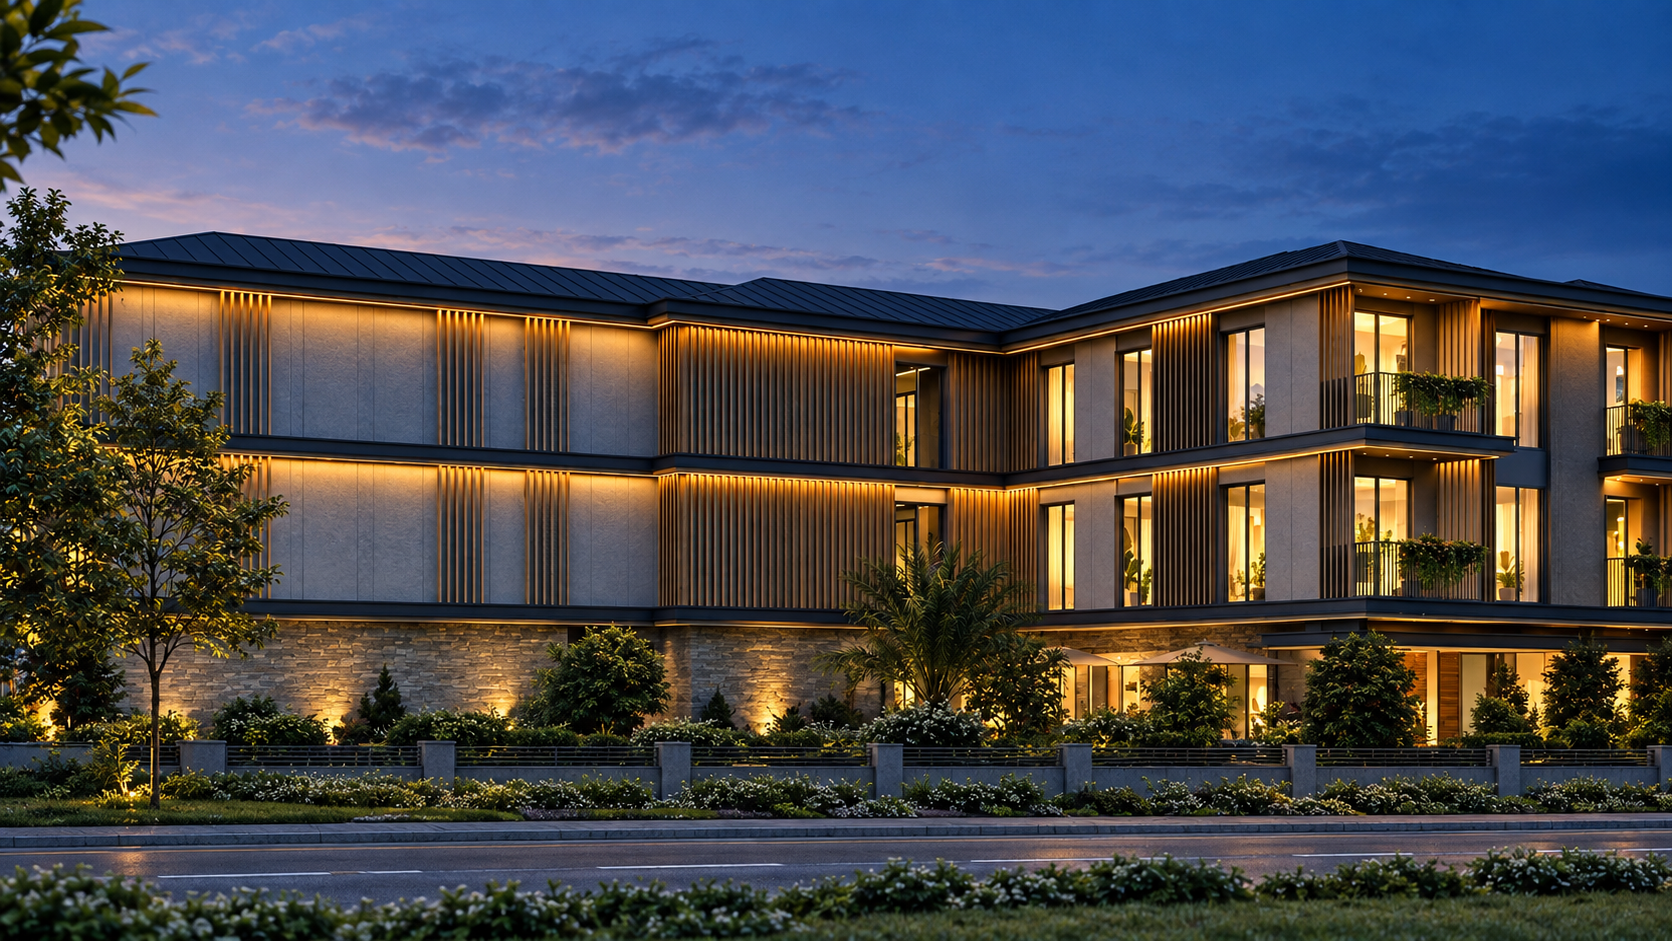
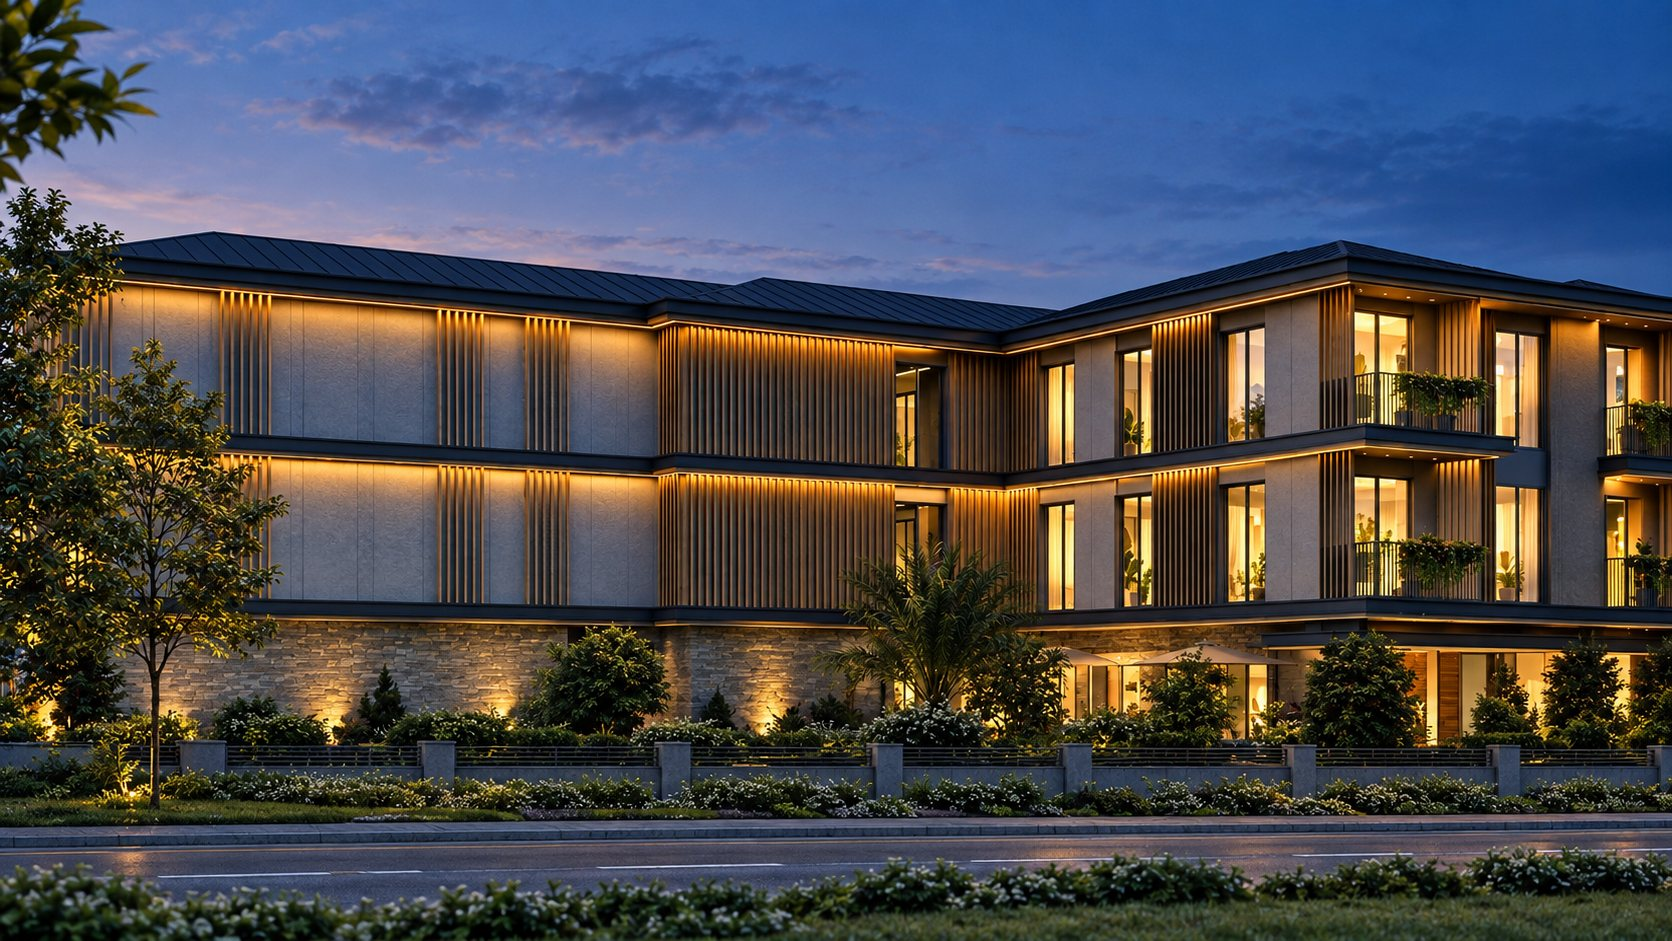
perf: optimize modal animations, eliminate nested backdrop blurs, and compress images by 85%

diff --git a/src/components/ProjectDetailModal.tsx b/src/components/ProjectDetailModal.tsx
@@ -31,17 +31,17 @@ export const ProjectDetailModal: React.FC<ProjectDetailModalProps> = ({ project,
 
   return (
     <div 
-      className="fixed inset-0 z-50 overflow-y-auto bg-black/45 backdrop-blur-sm flex justify-center p-0 md:p-6 lg:p-10 animate-modal-backdrop"
+      className="fixed inset-0 z-50 overflow-y-auto bg-black/70 backdrop-blur-sm flex justify-center p-0 md:p-6 lg:p-10 animate-modal-backdrop"
       onClick={(e) => {
         if (e.target === e.currentTarget) onClose()
       }}
     >
       <div 
-        className="relative w-full max-w-5xl bg-[#1e242b]/75 backdrop-blur-2xl border border-[#fffff1]/20 md:rounded-2xl overflow-hidden shadow-[0_25px_60px_-15px_rgba(0,0,0,0.7)] flex flex-col text-[#fffff1] my-auto animate-modal-content"
+        className="relative w-full max-w-5xl bg-[#1e242b] border border-[#fffff1]/20 md:rounded-2xl overflow-hidden shadow-[0_25px_60px_-15px_rgba(0,0,0,0.85)] flex flex-col text-[#fffff1] my-auto animate-modal-content"
         onClick={(e) => e.stopPropagation()}
       >
         {/* Sticky Header Bar */}
-        <div className="sticky top-0 z-30 flex items-center justify-between px-6 py-4 bg-[#1e242b]/65 backdrop-blur-xl border-b border-[#fffff1]/15">
+        <div className="sticky top-0 z-30 flex items-center justify-between px-6 py-4 bg-[#1e242b] border-b border-[#fffff1]/15">
           <div>
             <span className="text-[10px] tracking-widest text-[#fffff1]/80 uppercase block font-medium">
               {project.categoryLabel} — {project.year}
@@ -118,7 +118,7 @@ export const ProjectDetailModal: React.FC<ProjectDetailModalProps> = ({ project,
             </div>
 
             {/* Technical Specifications Card */}
-            <div className="bg-[#313941]/55 backdrop-blur-xl border border-[#fffff1]/15 p-6 rounded-xl space-y-5 h-fit shadow-lg">
+            <div className="bg-[#2c343d] border border-[#fffff1]/15 p-6 rounded-xl space-y-5 h-fit shadow-lg">
               <h3 className="text-xs tracking-[0.2em] text-[#fffff1]/80 uppercase pb-2 border-b border-[#fffff1]/10 font-medium">
                 TEKNİK KÜNYE
               </h3>
@@ -198,7 +198,7 @@ export const ProjectDetailModal: React.FC<ProjectDetailModalProps> = ({ project,
               </div>
 
               {project.floorPlans[selectedPlanIndex] && (
-                <div className="bg-[#313941]/55 backdrop-blur-xl border border-[#fffff1]/15 rounded-xl p-6 grid grid-cols-1 md:grid-cols-2 gap-6 items-center shadow-lg">
+                <div className="bg-[#2c343d] border border-[#fffff1]/15 rounded-xl p-6 grid grid-cols-1 md:grid-cols-2 gap-6 items-center shadow-lg">
                   <div className="rounded-lg overflow-hidden border border-[#fffff1]/10 aspect-[4/3] bg-black/40">
                     <img
                       src={project.floorPlans[selectedPlanIndex].image}

diff --git a/src/components/TourBookingModal.tsx b/src/components/TourBookingModal.tsx
@@ -29,17 +29,17 @@ export const TourBookingModal: React.FC<TourBookingModalProps> = ({ isOpen, onCl
 
   return (
     <div 
-      className="fixed inset-0 z-50 overflow-y-auto bg-black/45 backdrop-blur-sm flex justify-center p-4 sm:p-6 lg:p-10 animate-modal-backdrop"
+      className="fixed inset-0 z-50 overflow-y-auto bg-black/70 backdrop-blur-sm flex justify-center p-4 sm:p-6 lg:p-10 animate-modal-backdrop"
       onClick={(e) => {
         if (e.target === e.currentTarget) onClose()
       }}
     >
       <div 
-        className="relative w-full max-w-xl bg-[#1e242b]/75 backdrop-blur-2xl border border-[#fffff1]/20 rounded-2xl overflow-hidden shadow-[0_25px_60px_-15px_rgba(0,0,0,0.7)] flex flex-col text-[#fffff1] my-auto animate-modal-content"
+        className="relative w-full max-w-xl bg-[#1e242b] border border-[#fffff1]/20 rounded-2xl overflow-hidden shadow-[0_25px_60px_-15px_rgba(0,0,0,0.85)] flex flex-col text-[#fffff1] my-auto animate-modal-content"
         onClick={(e) => e.stopPropagation()}
       >
         {/* Top Bar */}
-        <div className="flex items-center justify-between px-6 py-4 bg-[#1e242b]/65 backdrop-blur-xl border-b border-[#fffff1]/15">
+        <div className="flex items-center justify-between px-6 py-4 bg-[#1e242b] border-b border-[#fffff1]/15">
           <div className="flex items-center space-x-2.5">
             <div className="w-8 h-8 rounded-lg bg-[#252c33] border border-[#fffff1]/20 text-[#fffff1] flex items-center justify-center font-bold">
               <Bus size={18} />

diff --git a/src/index.css b/src/index.css
@@ -264,35 +264,32 @@
 @keyframes modalBackdropFadeIn {
   from {
     opacity: 0;
-    backdrop-filter: blur(0px);
-    -webkit-backdrop-filter: blur(0px);
   }
   to {
     opacity: 1;
-    backdrop-filter: blur(20px);
-    -webkit-backdrop-filter: blur(20px);
   }
 }
 
 @keyframes modalContentPopIn {
   0% {
     opacity: 0;
-    transform: scale(0.95) translateY(14px);
-    filter: blur(4px);
+    transform: scale(0.97) translateY(8px);
   }
   100% {
     opacity: 1;
     transform: scale(1) translateY(0);
-    filter: blur(0px);
   }
 }
 
 .animate-modal-backdrop {
-  animation: modalBackdropFadeIn 0.35s cubic-bezier(0.16, 1, 0.3, 1) forwards;
+  animation: modalBackdropFadeIn 0.18s ease-out forwards;
+  will-change: opacity;
 }
 
 .animate-modal-content {
-  animation: modalContentPopIn 0.4s cubic-bezier(0.16, 1, 0.3, 1) forwards;
+  animation: modalContentPopIn 0.2s cubic-bezier(0.16, 1, 0.3, 1) forwards;
+  will-change: transform, opacity;
+  transform: translateZ(0);
 }
 
 @keyframes mobileDrawerSlideIn {

diff --git a/src/components/ResponsiveMedia.tsx b/src/components/ResponsiveMedia.tsx
@@ -22,14 +22,15 @@ export const ResponsiveMedia: React.FC<ResponsiveMediaProps> = ({
   const mobileVideoRef = useRef<HTMLVideoElement>(null)
   const [isMuted, setIsMuted] = useState(true)
   const [isPlaying, setIsPlaying] = useState(true)
-  const [isMobile, setIsMobile] = useState(false)
+  const [isMobile, setIsMobile] = useState(() => 
+    typeof window !== 'undefined' ? window.innerWidth < 768 : false
+  )
 
   useEffect(() => {
     const checkMobile = () => {
       setIsMobile(window.innerWidth < 768)
     }
-    checkMobile()
-    window.addEventListener('resize', checkMobile)
+    window.addEventListener('resize', checkMobile, { passive: true })
     return () => window.removeEventListener('resize', checkMobile)
   }, [])
 
